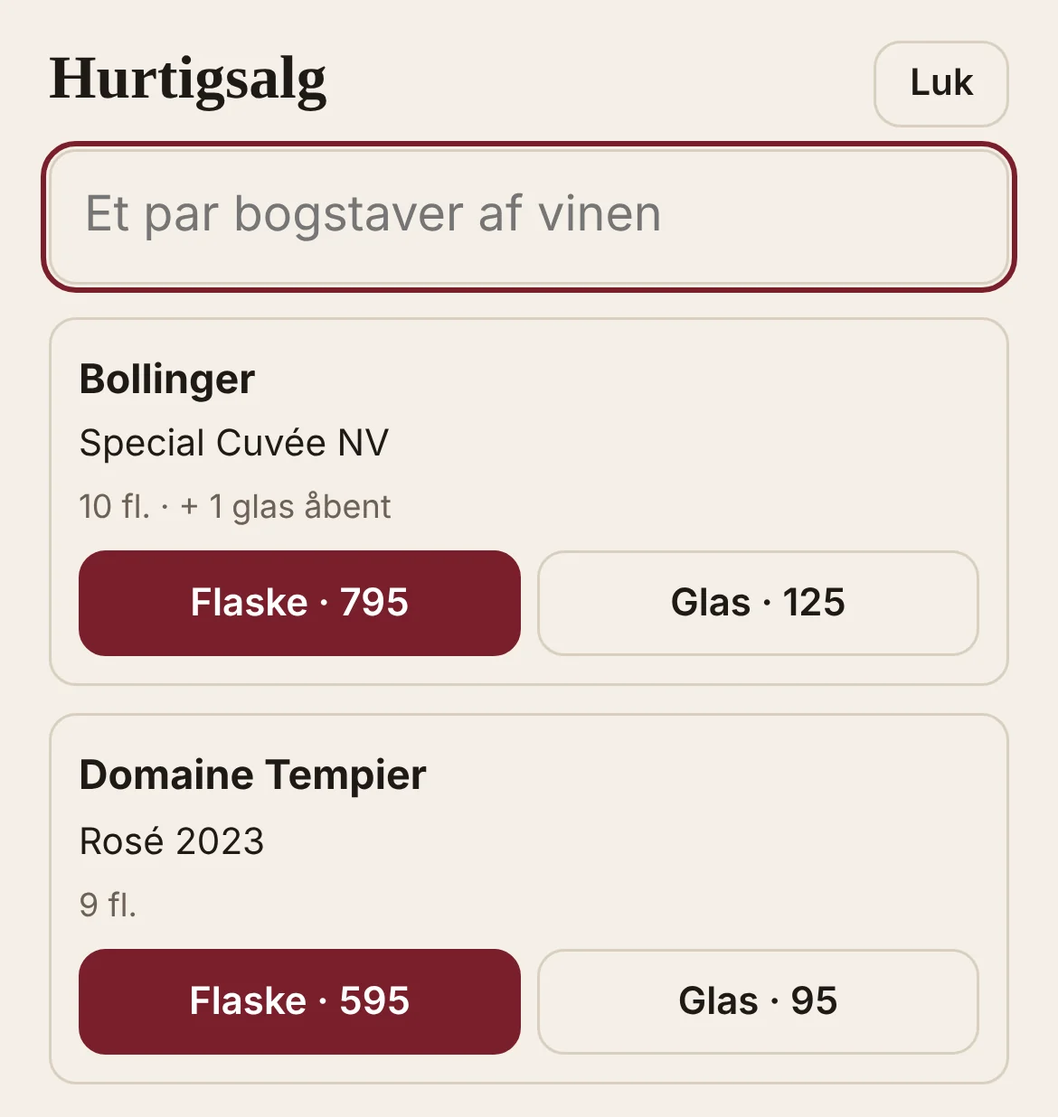
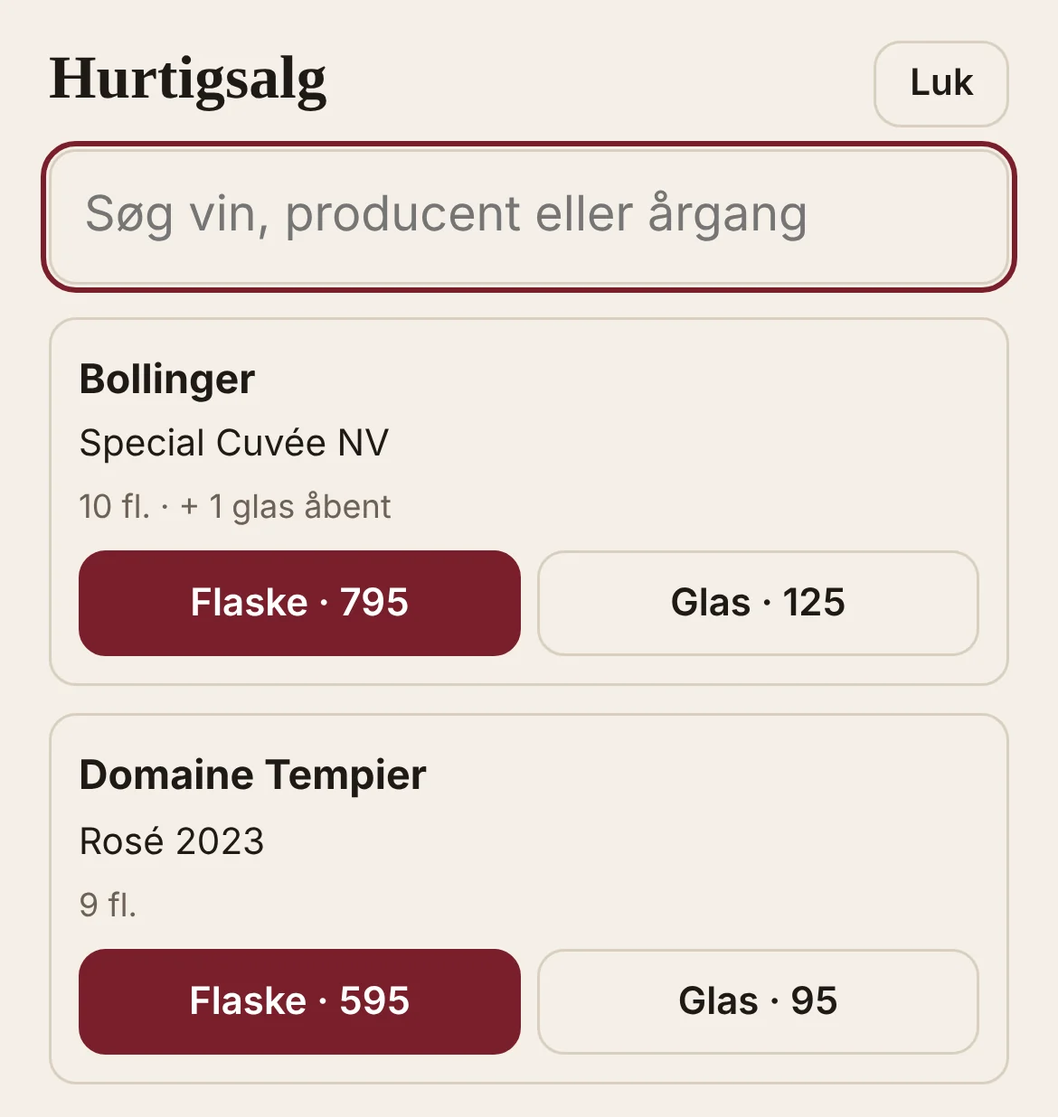
Business page in plainer words; quick sell's search says what it searches
- business.html: the hero, the tour's cards and the prices rewritten shorter and concrete (no
  slogans); the feature grid is gone, as it said what the cards and the prices say
- quick sell and goods in: "Search wine, producer or vintage" in place of "A few letters of the
  wine"; screenshots retaken (en, da)
- da/fr/de for all of it

Claude-Session: https://claude.ai/code/session_019rk1NEmMaTxeNnVUCvXzv9

Changed region(s): [[0.0615, 0.1537, 0.7692, 0.2152]]

diff --git a/business.html b/business.html
@@ -5,7 +5,7 @@
 <!-- what the page may load (see README, "Content-Security-Policy"); GitHub Pages can't send it as a header -->
 <meta http-equiv="Content-Security-Policy" content="default-src 'self'; style-src 'self' 'unsafe-inline'; img-src 'self' data:; script-src 'self'; connect-src 'self'; frame-src 'none'; object-src 'none'; base-uri 'self'; form-action 'none'">
 <meta name="referrer" content="strict-origin-when-cross-origin">
-<meta name="i18n-extra" content="business-page-i18n-da.js?v=6 business-page-i18n-fr.js?v=6 business-page-i18n-de.js?v=6">
+<meta name="i18n-extra" content="business-page-i18n-da.js?v=7 business-page-i18n-fr.js?v=7 business-page-i18n-de.js?v=7">
 <meta name="viewport" content="width=device-width, initial-scale=1">
 <title>AllWine for business</title>
 <meta name="description" content="AllWine for restaurants, wine bars, wine merchants and winemakers: the stock, the sales and the wine card in one place. Price on request.">
@@ -32,8 +32,6 @@ a{color:var(--accent)}
 .btn{display:inline-block;padding:10px 16px;border-radius:999px;border:1px solid var(--line);background:var(--card);color:var(--ink);font:inherit;font-weight:600;text-decoration:none;cursor:pointer}
 .btn.primary{background:var(--accent);border-color:var(--accent);color:#fff}
 h2{font-size:28px;margin:44px 0 6px} .sub{color:var(--muted);margin:0 0 16px}
-.feats{display:grid;grid-template-columns:repeat(auto-fit,minmax(230px,1fr));gap:12px}
-.feat{background:var(--card);border:1px solid var(--line);border-radius:12px;padding:14px 16px} .feat h3{margin:0 0 4px;font-size:16px} .feat p{margin:0;color:var(--muted);font-size:14.5px}
 /* the tour: a gallery, one feature a card (its words above, a cut of the app below), swiped or scrolled sideways */
 .gal{width:100vw;margin-left:calc(50% - 50vw);position:relative}
 .track{display:flex;gap:18px;overflow-x:auto;scroll-snap-type:x mandatory;scroll-behavior:smooth;scrollbar-width:none;
@@ -80,29 +78,15 @@ h2{font-size:28px;margin:44px 0 6px} .sub{color:var(--muted);margin:0 0 16px}
 
 <section class="hero">
   <div>
-    <h1 data-i18n>Your wine, from the cellar to the glass, in one place</h1>
-    <p data-i18n>For restaurants and wine bars, wine merchants and winemakers: the stock you count and sell from, the sales and margins by period, and a wine card that keeps itself up to date, online with a QR code.</p>
+    <h1 data-i18n>Stock, sales and the wine card in one place</h1>
+    <p data-i18n>Count and sell from the same list, see the margin on every bottle, and keep a wine card online that changes when the stock does.</p>
     <div class="cta"><a class="btn primary" href="#tour" data-i18n>Take the tour</a><a class="btn" href="#prices" data-i18n>See the prices</a></div>
   </div>
   <img src="img/business/inventory.webp" alt="The inventory: every wine with its stock, minimum, prices, supplier and margin" width="2240" height="1400">
 </section>
 
-<h2 data-i18n>What you get</h2>
-<p class="sub" data-i18n>One business account, everything included: for a restaurant, a wine bar, a shop or a domaine.</p>
-<div class="feats" id="feats">
-  <div class="feat"><h3 data-i18n>An inventory to work from</h3><p data-i18n>Every wine as a line: stock, minimum, cost and selling price, supplier and margin, edited in place. Search, filter by location or what's running low.</p></div>
-  <div class="feat"><h3 data-i18n>Quick sell, by the bottle or the glass</h3><p data-i18n>A till for service: a few letters find the wine, one tap sells a bottle or a glass. The open bottle's glasses are counted for you.</p></div>
-  <div class="feat"><h3 data-i18n>Sales and accounts</h3><p data-i18n>Takings with and without VAT, gross profit and margin, best sellers and slow movers, for a week, a month or a year; the month as a CSV for your bookkeeping.</p></div>
-  <div class="feat"><h3 data-i18n>A wine card that writes itself</h3><p data-i18n>Print it or put it online behind a QR code on the table: it shows what's in stock at today's prices, with the price by the glass.</p></div>
-  <div class="feat"><h3 data-i18n>Your own wines by vintage</h3><p data-i18n>Name your domaine and see your wines vintage by vintage, with a cellar-door price list online.</p></div>
-  <div class="feat"><h3 data-i18n>Reorder, by supplier</h3><p data-i18n>Set a minimum per wine; what's below it is listed by supplier, ready to email or print as an order.</p></div>
-  <div class="feat"><h3 data-i18n>Stock by location</h3><p data-i18n>Bar fridge, cellar, shelf 3: see what's where, and what it's worth at cost.</p></div>
-  <div class="feat"><h3 data-i18n>Knowledge for your staff</h3><p data-i18n>Serving temperature, glass and decanting, food matches, and a sommelier to ask, in four languages.</p></div>
-  <div class="feat"><h3 data-i18n>Private by design</h3><p data-i18n>Your figures are encrypted in your browser: we can't read them. Export everything at any time.</p></div>
-</div>
-
 <h2 id="tour" data-i18n>Take the tour</h2>
-<p class="sub" data-i18n>Real screens from a made-up wine bar, one feature at a time. Swipe or scroll sideways.</p>
+<p class="sub" data-i18n>Screens from a made-up wine bar. Swipe or scroll sideways.</p>
 <section class="gal" id="tourBox" aria-roledescription="carousel" aria-label="The tour" data-i18n-aria>
   <div class="track" id="track" tabindex="0"></div>
   <div class="gnav"><div class="dots" id="dots"></div>
@@ -110,23 +94,23 @@ h2{font-size:28px;margin:44px 0 6px} .sub{color:var(--muted);margin:0 0 16px}
 </section>
 <!-- the cards: the picture (img/business, made by tools/shot-demo.js), the part of the business it belongs to, title, text -->
 <template id="slides">
-  <div data-shot="kpis"><u data-i18n>Inventory</u><b data-i18n>Stock at a glance</b><i data-i18n>Bottles, value at cost and at menu price, and how many wines are under their minimum.</i></div>
-  <div data-shot="stock"><u data-i18n>Inventory</u><b data-i18n>Every wine as a line</b><i data-i18n>Stock, minimum, cost and menu price, supplier and margin, changed right there. The margin follows the price.</i></div>
-  <div data-shot="quicksell"><u data-i18n>Service</u><b data-i18n>Quick sell</b><i data-i18n>During service: a few letters find the wine, one tap sells a bottle or a glass. The open bottle is counted by the glass.</i></div>
-  <div data-shot="count"><u data-i18n>Inventory</u><b data-i18n>Counting the stock</b><i data-i18n>Type what's on the shelf; the difference shows at once, and nothing is saved until you say so.</i></div>
-  <div data-shot="sales"><u data-i18n>Accounts</u><b data-i18n>Sales and accounts</b><i data-i18n>Takings with and without VAT, gross profit and margin, day by day, for the period you choose.</i></div>
-  <div data-shot="movers"><u data-i18n>Accounts</u><b data-i18n>Best sellers and slow movers</b><i data-i18n>What sells, and what has stood still for 90 days.</i></div>
-  <div data-shot="reorder"><u data-i18n>Inventory</u><b data-i18n>Reordering</b><i data-i18n>Set a minimum per wine: what's under it is listed by supplier, ready to email or print as an order.</i></div>
+  <div data-shot="kpis"><u data-i18n>Inventory</u><b data-i18n>Stock at a glance</b><i data-i18n>Bottles, stock value at cost and at menu price, and wines under their minimum.</i></div>
+  <div data-shot="stock"><u data-i18n>Inventory</u><b data-i18n>Every wine as a line</b><i data-i18n>Stock, minimum, prices, supplier and margin on one line. Change a price and the margin follows.</i></div>
+  <div data-shot="quicksell"><u data-i18n>Service</u><b data-i18n>Quick sell</b><i data-i18n>Search, then tap Bottle or Glass. The glasses left in an open bottle are counted.</i></div>
+  <div data-shot="count"><u data-i18n>Inventory</u><b data-i18n>Counting the stock</b><i data-i18n>Type what's on the shelf. You see the difference before anything is saved.</i></div>
+  <div data-shot="sales"><u data-i18n>Accounts</u><b data-i18n>Sales and accounts</b><i data-i18n>Takings with and without VAT, gross profit and margin, for the period you pick.</i></div>
+  <div data-shot="movers"><u data-i18n>Accounts</u><b data-i18n>Best sellers and slow movers</b><i data-i18n>What sells, and what hasn't moved in 90 days.</i></div>
+  <div data-shot="reorder"><u data-i18n>Inventory</u><b data-i18n>Reordering</b><i data-i18n>Give each wine a minimum. What falls below it is listed per supplier, ready to send as an order.</i></div>
   <div data-shot="locations"><u data-i18n>Inventory</u><b data-i18n>Stock by location</b><i data-i18n>Bar fridge, cellar, shelf 3: what's where, and what it's worth at cost.</i></div>
-  <div data-shot="winecard"><u data-i18n>Wine card</u><b data-i18n>The wine card</b><i data-i18n>Made from your stock and prices. Print it, or put it online with a QR code for the table.</i></div>
-  <div data-shot="guest"><u data-i18n>Wine card</u><b data-i18n>What the guest sees</b><i data-i18n>The card on the guest's phone. When a wine sells out or a price changes, it follows by itself.</i></div>
-  <div data-shot="details"><u data-i18n>Inventory</u><b data-i18n>Each wine</b><i data-i18n>Prices, stock, minimum and supplier in its details, with the margin worked out, and a sale in one tap.</i></div>
-  <div data-shot="sommelier"><u data-i18n>Knowledge</u><b data-i18n>The sommelier</b><i data-i18n>Ask what goes with a dish: it answers from your own stock, offline, in four languages.</i></div>
-  <div data-shot="atlas"><u data-i18n>Knowledge</u><b data-i18n>The wine atlas</b><i data-i18n>The vineyards of France and Germany from official maps: a story to tell at the table.</i></div>
+  <div data-shot="winecard"><u data-i18n>Wine card</u><b data-i18n>The wine card</b><i data-i18n>Built from your stock and prices. Print it, or put it online behind a QR code.</i></div>
+  <div data-shot="guest"><u data-i18n>Wine card</u><b data-i18n>What the guest sees</b><i data-i18n>The card on the guest's phone. A wine that sells out comes off it; a new price shows at once.</i></div>
+  <div data-shot="details"><u data-i18n>Inventory</u><b data-i18n>Each wine</b><i data-i18n>The margin on the bottle, the stock and the supplier, and a sale in one tap.</i></div>
+  <div data-shot="sommelier"><u data-i18n>Knowledge</u><b data-i18n>The sommelier</b><i data-i18n>Ask what goes with a dish. It answers from your own stock, offline.</i></div>
+  <div data-shot="atlas"><u data-i18n>Knowledge</u><b data-i18n>The wine atlas</b><i data-i18n>Official vineyard maps of France and Germany, for when a guest asks where a wine is from.</i></div>
 </template>
 
 <h2 id="prices" data-i18n>Prices</h2>
-<p class="sub" data-i18n>A price for your business, everything included: tell us what you need and we'll make you an offer. No set-up fee, no binding, and your data is always yours to take with you.</p>
+<p class="sub" data-i18n>Tell us about your business and we'll send a price. No set-up fee, no lock-in, and you can export everything at any time.</p>
 <div class="plans" id="plans">
   <div class="plan" data-plan="private"><h3 data-i18n>Private cellar</h3><div class="price"><span data-i18n>Free</span></div>
     <ul><li data-i18n>The cellar, the journal and the wishlist</li><li data-i18n>The sommelier and the wine atlas</li><li data-i18n>Encrypted, exportable</li></ul></div>
@@ -150,6 +134,6 @@ h2{font-size:28px;margin:44px 0 6px} .sub{color:var(--muted);margin:0 0 16px}
 <script src="i18n.js?v=95"></script>
 <script src="site-info.js?v=2"></script>
 <script src="site-foot.js?v=4"></script>
-<script src="business-page.js?v=6"></script>
+<script src="business-page.js?v=7"></script>
 </body>
 </html>

diff --git a/business-page-i18n-de.js b/business-page-i18n-de.js
@@ -1,6 +1,22 @@
 // The business page's texts in German (business.html; English is the source there). Loaded after i18n-de.js,
 // which i18n.js makes sure of, and added to its dictionary.
 Object.assign(window.I18N_DICT.de, {
+  "Stock, sales and the wine card in one place": "Bestand, Verkauf und Weinkarte an einem Ort",
+  "Count and sell from the same list, see the margin on every bottle, and keep a wine card online that changes when the stock does.": "Zählen und verkaufen Sie aus derselben Liste, sehen Sie die Marge jeder Flasche, und halten Sie eine Weinkarte online, die sich mit dem Bestand ändert.",
+  "Screens from a made-up wine bar. Swipe or scroll sideways.": "Bildschirme aus einer erfundenen Weinbar. Seitlich wischen oder scrollen.",
+  "Bottles, stock value at cost and at menu price, and wines under their minimum.": "Flaschen, Bestandswert zum Einkaufs- und zum Kartenpreis, und Weine unter ihrem Minimum.",
+  "Stock, minimum, prices, supplier and margin on one line. Change a price and the margin follows.": "Bestand, Minimum, Preise, Lieferant und Marge in einer Zeile. Ändern Sie einen Preis, und die Marge folgt.",
+  "Search, then tap Bottle or Glass. The glasses left in an open bottle are counted.": "Suchen, dann Flasche oder Glas tippen. Die Gläser in einer offenen Flasche werden mitgezählt.",
+  "Type what's on the shelf. You see the difference before anything is saved.": "Tippen Sie ein, was im Regal steht. Sie sehen die Differenz, bevor etwas gespeichert wird.",
+  "Takings with and without VAT, gross profit and margin, for the period you pick.": "Umsatz mit und ohne MwSt., Rohertrag und Marge für den gewählten Zeitraum.",
+  "What sells, and what hasn't moved in 90 days.": "Was sich verkauft, und was sich seit 90 Tagen nicht bewegt hat.",
+  "Give each wine a minimum. What falls below it is listed per supplier, ready to send as an order.": "Geben Sie jedem Wein ein Minimum. Was darunter fällt, steht nach Lieferant sortiert bereit, als Bestellung zu senden.",
+  "Built from your stock and prices. Print it, or put it online behind a QR code.": "Aus Ihrem Bestand und Ihren Preisen gebaut. Drucken oder online hinter einem QR-Code.",
+  "The card on the guest's phone. A wine that sells out comes off it; a new price shows at once.": "Die Karte auf dem Telefon des Gastes. Ein ausverkaufter Wein verschwindet; ein neuer Preis erscheint sofort.",
+  "The margin on the bottle, the stock and the supplier, and a sale in one tap.": "Die Marge der Flasche, Bestand und Lieferant, und ein Verkauf mit einem Tipp.",
+  "Ask what goes with a dish. It answers from your own stock, offline.": "Fragen Sie, was zu einem Gericht passt. Er antwortet aus Ihrem eigenen Bestand, offline.",
+  "Official vineyard maps of France and Germany, for when a guest asks where a wine is from.": "Amtliche Weinbergskarten Frankreichs und Deutschlands, wenn ein Gast fragt, woher ein Wein kommt.",
+  "Tell us about your business and we'll send a price. No set-up fee, no lock-in, and you can export everything at any time.": "Erzählen Sie uns von Ihrem Betrieb, und wir schicken Ihnen einen Preis. Keine Einrichtungsgebühr, keine Bindung, und Sie können jederzeit alles exportieren.",
   "One business account, everything included: for a restaurant, a wine bar, a shop or a domaine.": "Ein Betriebskonto, alles inklusive: für ein Restaurant, eine Weinbar, einen Laden oder ein Weingut.",
   "Serving temperature, glass and decanting, food matches, and a sommelier to ask, in four languages.": "Trinktemperatur, Glas und Dekantieren, passende Speisen, und ein Sommelier zum Fragen, in vier Sprachen.",
   "Business": "Betrieb",

diff --git a/business-page-i18n-fr.js b/business-page-i18n-fr.js
@@ -1,6 +1,22 @@
 // The business page's texts in French (business.html; English is the source there). Loaded after i18n-fr.js,
 // which i18n.js makes sure of, and added to its dictionary.
 Object.assign(window.I18N_DICT.fr, {
+  "Stock, sales and the wine card in one place": "Stock, ventes et carte des vins au même endroit",
+  "Count and sell from the same list, see the margin on every bottle, and keep a wine card online that changes when the stock does.": "Comptez et vendez depuis la même liste, voyez la marge sur chaque bouteille, et gardez en ligne une carte des vins qui suit le stock.",
+  "Screens from a made-up wine bar. Swipe or scroll sideways.": "Des écrans d'un bar à vin imaginaire. Balayez ou faites défiler de côté.",
+  "Bottles, stock value at cost and at menu price, and wines under their minimum.": "Bouteilles, valeur du stock au prix d'achat et au prix de la carte, et vins sous leur minimum.",
+  "Stock, minimum, prices, supplier and margin on one line. Change a price and the margin follows.": "Stock, minimum, prix, fournisseur et marge sur une ligne. Changez un prix, la marge suit.",
+  "Search, then tap Bottle or Glass. The glasses left in an open bottle are counted.": "Cherchez, puis touchez Bouteille ou Verre. Les verres restant dans une bouteille ouverte sont comptés.",
+  "Type what's on the shelf. You see the difference before anything is saved.": "Saisissez ce qu'il y a sur l'étagère. Vous voyez l'écart avant tout enregistrement.",
+  "Takings with and without VAT, gross profit and margin, for the period you pick.": "Chiffre d'affaires TTC et HT, marge brute et taux de marge, sur la période choisie.",
+  "What sells, and what hasn't moved in 90 days.": "Ce qui se vend, et ce qui n'a pas bougé en 90 jours.",
+  "Give each wine a minimum. What falls below it is listed per supplier, ready to send as an order.": "Donnez un minimum à chaque vin. Ce qui passe en dessous est listé par fournisseur, prêt à partir en commande.",
+  "Built from your stock and prices. Print it, or put it online behind a QR code.": "Construite à partir de votre stock et de vos prix. Imprimez-la, ou mettez-la en ligne derrière un QR code.",
+  "The card on the guest's phone. A wine that sells out comes off it; a new price shows at once.": "La carte sur le téléphone du client. Un vin épuisé en disparaît ; un nouveau prix s'affiche aussitôt.",
+  "The margin on the bottle, the stock and the supplier, and a sale in one tap.": "La marge sur la bouteille, le stock et le fournisseur, et une vente en un geste.",
+  "Ask what goes with a dish. It answers from your own stock, offline.": "Demandez ce qui va avec un plat. Il répond à partir de votre stock, hors ligne.",
+  "Official vineyard maps of France and Germany, for when a guest asks where a wine is from.": "Les cartes officielles des vignobles de France et d'Allemagne, quand un client demande d'où vient un vin.",
+  "Tell us about your business and we'll send a price. No set-up fee, no lock-in, and you can export everything at any time.": "Parlez-nous de votre activité et nous vous enverrons un prix. Pas de frais d'installation, pas d'engagement, et vous pouvez tout exporter à tout moment.",
   "One business account, everything included: for a restaurant, a wine bar, a shop or a domaine.": "Un seul compte pro, tout compris : pour un restaurant, un bar à vin, un caviste ou un domaine.",
   "Serving temperature, glass and decanting, food matches, and a sommelier to ask, in four languages.": "Température de service, verre et carafage, accords mets-vins, et un sommelier à interroger, en quatre langues.",
   "Business": "Pro",

diff --git a/business-page-i18n-da.js b/business-page-i18n-da.js
@@ -1,6 +1,22 @@
 // The business page's texts in Danish (business.html; English is the source there). Loaded after i18n-da.js,
 // which i18n.js makes sure of, and added to its dictionary.
 Object.assign(window.I18N_DICT.da, {
+  "Stock, sales and the wine card in one place": "Lager, salg og vinkort ét sted",
+  "Count and sell from the same list, see the margin on every bottle, and keep a wine card online that changes when the stock does.": "Tæl og sælg fra den samme liste, se avancen på hver flaske, og hav et vinkort online, der ændrer sig med lageret.",
+  "Screens from a made-up wine bar. Swipe or scroll sideways.": "Skærmbilleder fra en opdigtet vinbar. Swipe eller scroll sidelæns.",
+  "Bottles, stock value at cost and at menu price, and wines under their minimum.": "Flasker, lagerværdi til kostpris og til menupris, og vine under deres minimum.",
+  "Stock, minimum, prices, supplier and margin on one line. Change a price and the margin follows.": "Lager, minimum, priser, leverandør og avance på én linje. Ret en pris, og avancen følger med.",
+  "Search, then tap Bottle or Glass. The glasses left in an open bottle are counted.": "Søg, og tryk Flaske eller Glas. Glassene i en åben flaske tælles med.",
+  "Type what's on the shelf. You see the difference before anything is saved.": "Skriv hvad der står på hylden. Du ser forskellen, før noget gemmes.",
+  "Takings with and without VAT, gross profit and margin, for the period you pick.": "Omsætning med og uden moms, dækningsbidrag og avance for den periode, du vælger.",
+  "What sells, and what hasn't moved in 90 days.": "Hvad der sælger, og hvad der ikke er rørt i 90 dage.",
+  "Give each wine a minimum. What falls below it is listed per supplier, ready to send as an order.": "Giv hver vin et minimum. Det, der kommer under, listes pr. leverandør, klar til at sende som bestilling.",
+  "Built from your stock and prices. Print it, or put it online behind a QR code.": "Bygget af jeres lager og priser. Udskriv det, eller læg det online bag en QR-kode.",
+  "The card on the guest's phone. A wine that sells out comes off it; a new price shows at once.": "Kortet på gæstens telefon. En udsolgt vin forsvinder fra det, og en ny pris vises med det samme.",
+  "The margin on the bottle, the stock and the supplier, and a sale in one tap.": "Avancen på flasken, lageret og leverandøren, og et salg med ét tryk.",
+  "Ask what goes with a dish. It answers from your own stock, offline.": "Spørg hvad der passer til en ret. Den svarer ud fra jeres eget lager, offline.",
+  "Official vineyard maps of France and Germany, for when a guest asks where a wine is from.": "Officielle vinmarkskort over Frankrig og Tyskland, når en gæst spørger, hvor en vin kommer fra.",
+  "Tell us about your business and we'll send a price. No set-up fee, no lock-in, and you can export everything at any time.": "Fortæl os om jeres forretning, så sender vi en pris. Intet oprettelsesgebyr, ingen binding, og I kan altid eksportere det hele.",
   "One business account, everything included: for a restaurant, a wine bar, a shop or a domaine.": "Én erhvervskonto med det hele: til en restaurant, en vinbar, en butik eller en vingård.",
   "Serving temperature, glass and decanting, food matches, and a sommelier to ask, in four languages.": "Serveringstemperatur, glas og dekantering, madforslag og en sommelier at spørge, på fire sprog.",
   "Business": "Erhverv",

diff --git a/tools/business-page-ui-test.js b/tools/business-page-ui-test.js
@@ -15,8 +15,8 @@ const results = []; const check = (name, ok, extra = "") => { results.push(ok); 
   p.on("response", r => { if (r.status() >= 400) bad.push(r.status() + " " + r.url()); });
   await p.goto(BASE + "business.html"); await p.waitForTimeout(800);
   check("open to search engines now (no noindex), and in the sitemap", !(await p.$('meta[name="robots"]')) && require("fs").readFileSync(require("path").join(__dirname, "..", "sitemap.xml"), "utf8").includes("https://allwine.dk/business.html"));
-  const feats = await p.$$eval("#feats .feat", fs => fs.map(f => f.querySelector("h3").textContent));
-  check("one business account, everything in it: quick sell, the wine card, its own wines, reordering", !(await p.$("#kinds")) && feats.some(x => /Quick sell/.test(x)) && feats.some(x => /wine card/.test(x)) && feats.some(x => /own wines/.test(x)) && feats.some(x => /Reorder/.test(x)), feats.join(" | "));
+  const inc = await p.$$eval('#plans .plan[data-plan="business"] li', ls => ls.map(l => l.textContent));
+  check("one business account, everything in it: quick sell, the wine card, its own wines, reordering", !(await p.$("#kinds, #feats")) && inc.some(x => /quick sell/.test(x)) && inc.some(x => /wine card/.test(x)) && inc.some(x => /own wines/.test(x)) && inc.some(x => /Reorder/.test(x)), inc.join(" | "));
   check("…and one price for it, beside the free private cellar", JSON.stringify(await p.$$eval("#plans .plan", ps => ps.map(x => x.dataset.plan))) === JSON.stringify(["private", "business"]) && (await p.getAttribute("#plans .plan.on", "data-plan")) === "business");
   // the tour: a gallery of cards, one feature each, moved sideways
   const card = k => p.evaluate(k => { const c = document.querySelectorAll("#track .gcard")[k]; return c && [c.querySelector("h3").textContent, c.querySelector("img").getAttribute("src")]; }, k);
@@ -42,7 +42,7 @@ const results = []; const check = (name, ok, extra = "") => { results.push(ok); 
   check("at the end › goes off", (await nav()).next, JSON.stringify(await nav()));
   // Danish
   await p.evaluate(() => I18N.setLang("da")); await p.waitForTimeout(600);
-  check("in Danish: the page, the cards, their pictures and the prices", /Jeres vin, fra kælderen til glasset/.test(await p.textContent("h1")) && (await card(0))[0] === "Lageret på et øjeblik"
+  check("in Danish: the page, the cards, their pictures and the prices", /Lager, salg og vinkort ét sted/.test(await p.textContent("h1")) && (await card(0))[0] === "Lageret på et øjeblik"
     && /img\/business\/da\/kpis\.webp/.test((await card(0))[1]) && /Pris efter aftale/.test(await p.textContent("#plans")), JSON.stringify(await card(0)));
   await p.evaluate(() => I18N.setLang("en")); await p.waitForTimeout(300);
   // a phone

diff --git a/business.js b/business.js
@@ -453,7 +453,7 @@ window.BIZ = (() => {
   // goods in: find the wine, the bottles that came, and the cost if it changed
   function openGoods() {
     const m = sheet("bzGoods", "Goods in", `<p class="note">${esc(tr("A delivery: find each wine, type the bottles that came (and the cost price if it changed), then Add."))}</p>
-      <input type="search" id="bzGoodsQ" placeholder="${esc(tr("A few letters of the wine"))}" aria-label="${esc(tr("A few letters of the wine"))}" autocomplete="off">
+      <input type="search" id="bzGoodsQ" placeholder="${esc(tr("Search wine, producer or vintage"))}" aria-label="${esc(tr("Search wine, producer or vintage"))}" autocomplete="off">
       <div class="bz-scroll"><table class="bz-tab2 bz-gin"><thead><tr><th>${esc(tr("Wine"))}</th><th>${esc(tr("In stock"))}</th><th>${esc(tr("Came"))}</th><th>${esc(tr("Cost price"))}</th><th></th></tr></thead><tbody id="bzGoodsB"></tbody></table></div>
       <p class="note">${esc(tr("A wine that isn't here yet: add it with ＋ Add wine."))}</p>`);
     const draw = () => { const q = fold($("bzGoodsQ").value).trim();
@@ -511,7 +511,7 @@ window.BIZ = (() => {
     let t = $("bzTill");
     if (!t) { t = document.createElement("div"); t.id = "bzTill"; t.className = "modal bz-till"; t.setAttribute("role", "dialog"); t.setAttribute("aria-modal", "true");
       t.innerHTML = `<div class="card"><div class="bz-h"><h2>${esc(tr("Quick sell"))}</h2><button type="button" class="btn" data-bz="tclose">${esc(tr("Close"))}</button></div>
-        <input type="search" id="bzTillQ" placeholder="${esc(tr("A few letters of the wine"))}" aria-label="${esc(tr("A few letters of the wine"))}" autocomplete="off">
+        <input type="search" id="bzTillQ" placeholder="${esc(tr("Search wine, producer or vintage"))}" aria-label="${esc(tr("Search wine, producer or vintage"))}" autocomplete="off">
         <div class="bz-tiles" id="bzTiles"></div></div>`;
       document.body.appendChild(t);
       t.querySelector('[data-bz="tclose"]').onclick = () => t.classList.remove("open");
@@ -789,6 +789,6 @@ window.BIZ = (() => {
 </style>`);
   setTimeout(apply, 0);
   // its words: only a business needs them, so they come now, not with every page (i18n.js redraws the page in them)
-  if (window.I18N) { I18N.onChange(apply); if (I18N.more) I18N.more("business-i18n", "?v=7"); }
+  if (window.I18N) { I18N.onChange(apply); if (I18N.more) I18N.more("business-i18n", "?v=8"); }
   return { refreshSales: () => loadSales(true), apply, detail, priceCell, overview, page, inventory, cardLabel, margin, openCard, salesRows, reorder, reorderText, cardData, publishCard, cardShare };
 })();

diff --git a/app.js b/app.js
@@ -1071,7 +1071,7 @@ function loadKind(){
 function setKindLocal(k, keepStored){
   KIND = k; document.documentElement.dataset.kind = k; $("acctKind").value = k;
   if(!keepStored) try{ localStorage.setItem(kindKey(), k); }catch(e){}
-  if(k!=="private" && !window.BIZ){ const s = document.createElement("script"); s.src = "business.js?v=13";
+  if(k!=="private" && !window.BIZ){ const s = document.createElement("script"); s.src = "business.js?v=14";
     s.onload = ()=>{ if(WINES.length){ renderOverview(); renderTable(); } }; document.head.appendChild(s); }
   else if(window.BIZ) BIZ.apply();
 }

diff --git a/business-i18n-fr.js b/business-i18n-fr.js
@@ -133,7 +133,7 @@ Object.assign(window.I18N_DICT.fr = window.I18N_DICT.fr || {}, {
   "No location": "Sans emplacement",
   "All locations": "Tous les emplacements",
   "Quick sell": "Vente rapide",
-  "A few letters of the wine": "Quelques lettres du vin",
+  "Search wine, producer or vintage": "Chercher un vin, un producteur, un millésime",
   "Goods in": "Réception",
   "Count stock": "Compter le stock",
   "{0}'s order has come": "La commande de {0} est arrivée",

diff --git a/business-i18n-de.js b/business-i18n-de.js
@@ -133,7 +133,7 @@ Object.assign(window.I18N_DICT.de = window.I18N_DICT.de || {}, {
   "No location": "Kein Lagerort",
   "All locations": "Alle Lagerorte",
   "Quick sell": "Schnellverkauf",
-  "A few letters of the wine": "Ein paar Buchstaben des Weins",
+  "Search wine, producer or vintage": "Wein, Erzeuger oder Jahrgang suchen",
   "Goods in": "Wareneingang",
   "Count stock": "Bestand zählen",
   "{0}'s order has come": "Die Bestellung von {0} ist da",

diff --git a/business-i18n-da.js b/business-i18n-da.js
@@ -133,7 +133,7 @@ Object.assign(window.I18N_DICT.da = window.I18N_DICT.da || {}, {
   "No location": "Ingen placering",
   "All locations": "Alle placeringer",
   "Quick sell": "Hurtigsalg",
-  "A few letters of the wine": "Et par bogstaver af vinen",
+  "Search wine, producer or vintage": "Søg vin, producent eller årgang",
   "Goods in": "Varemodtagelse",
   "Count stock": "Optæl lager",
   "{0}'s order has come": "Bestillingen fra {0} er kommet",

diff --git a/index.html b/index.html
@@ -1875,6 +1875,6 @@ b.clsest{font-weight:600;border-bottom:1px dashed currentColor;cursor:help} /* (
 <script src="import.js?v=8"></script>
 <script src="export.js?v=3"></script>
 <script src="share-crypto.js?v=2"></script>
-<script src="app.js?v=102"></script>
+<script src="app.js?v=103"></script>
 </body>
 </html>
